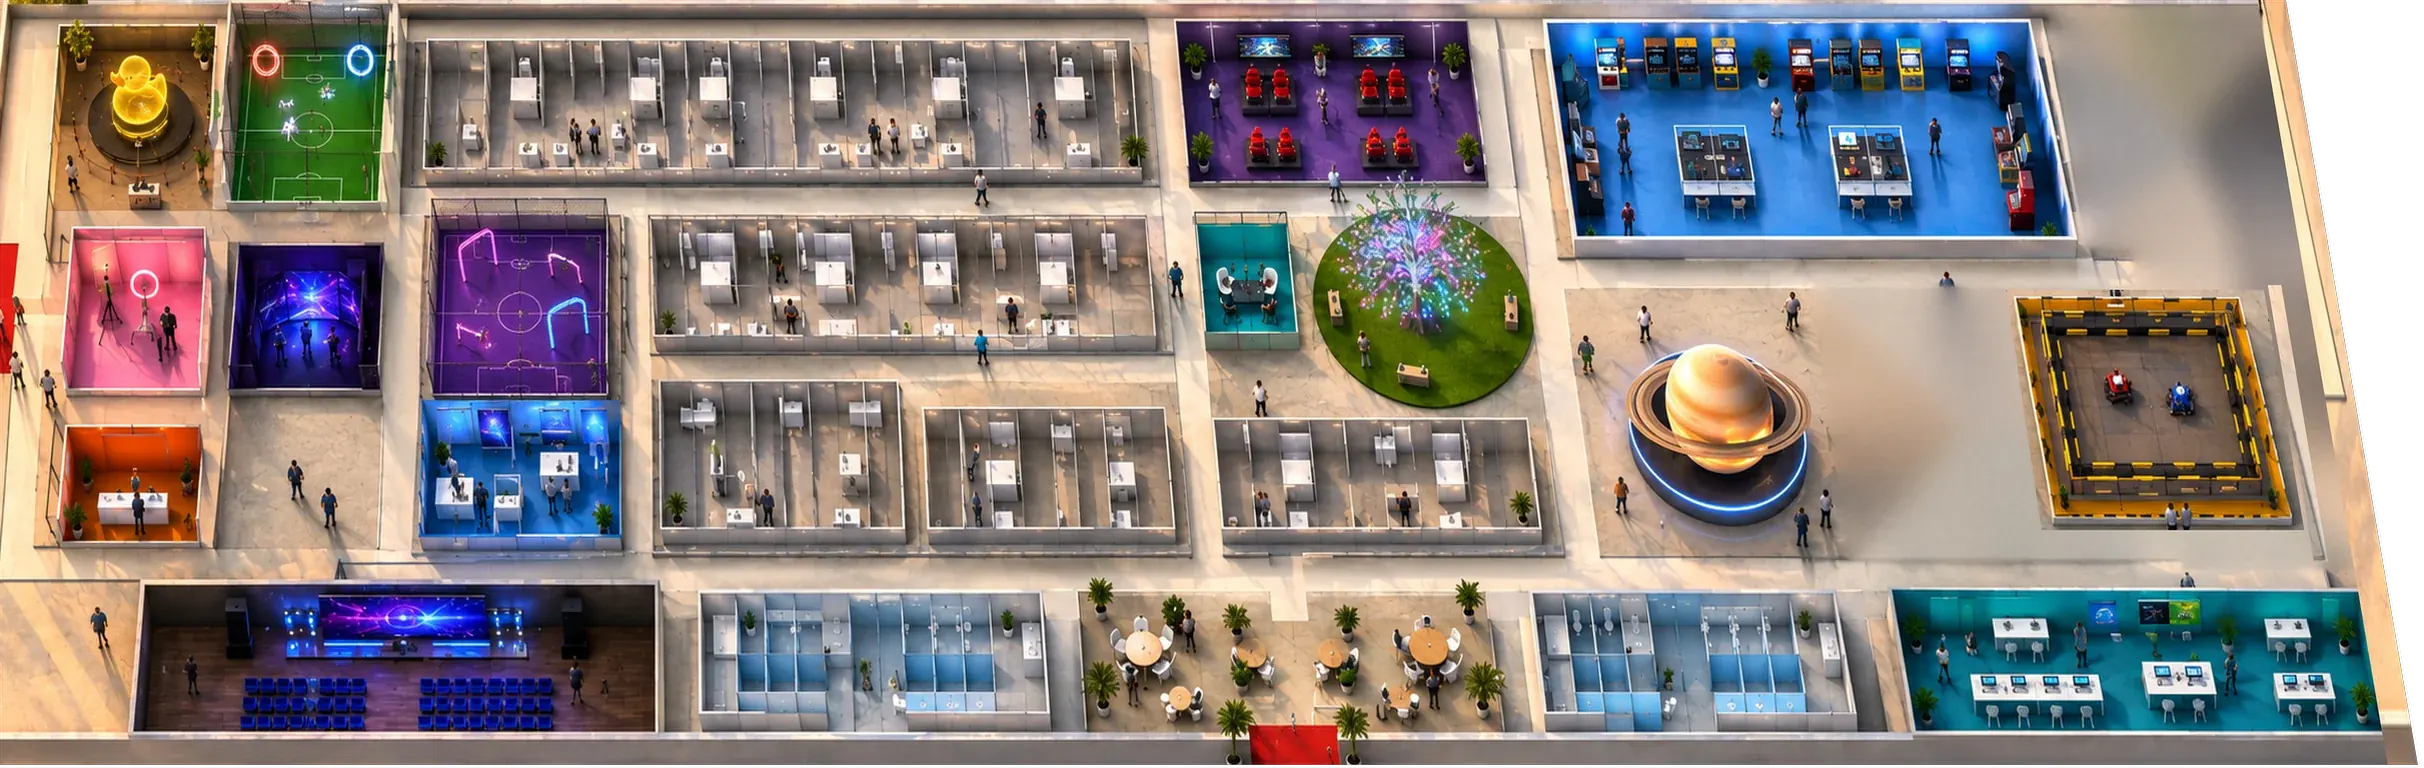
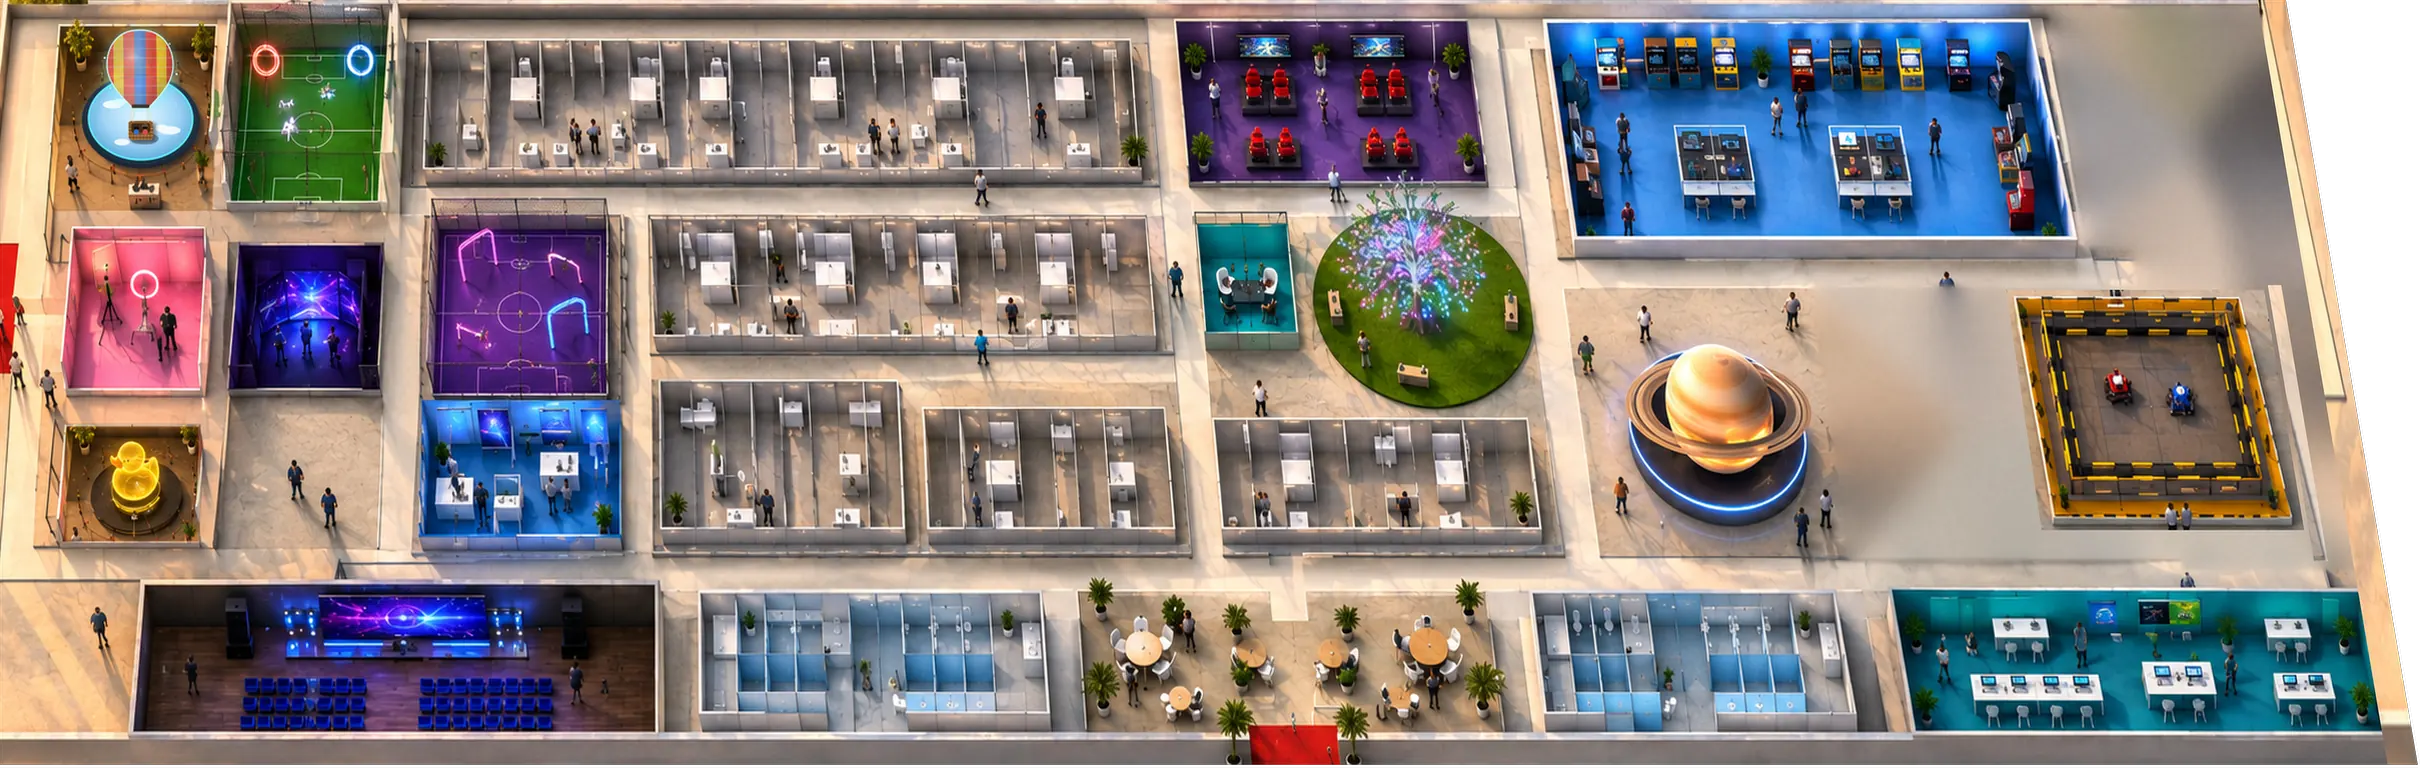
Organizando parte interna do pavilhão

Changed region(s): [[0.0, 0.5312, 0.0928, 0.7188], [0.0309, 0.0312, 0.0928, 0.2188]]

diff --git a/src/Mapa.jsx b/src/Mapa.jsx
@@ -18,6 +18,7 @@ const internos = dados.locais.filter((l) => l.dentro && l.x != null)
 
 // ícones das atrações (24x24, traço branco)
 const ICONES = {
+  balao: 'M12 3a6 6 0 0 0-6 6c0 3.2 2.6 5.6 4 7h4c1.4-1.4 4-3.8 4-7a6 6 0 0 0-6-6zM12 3c-1.6 2-2 4.5-2 6s.6 4.6 2 7M12 3c1.6 2 2 4.5 2 6s-.6 4.6-2 7M10 16l.5 2.5M14 16l-.5 2.5M9.5 18.5h5v2.5h-5z',
   pato: 'M6 14c0 3.3 2.7 5 6 5s6-1.7 6-5c0-1.8-1.2-3-2.6-3.5A4 4 0 1 0 8 9c0 .9.3 1.6.7 2.2C7.1 11.8 6 12.8 6 14zM13.5 8h.01M15.8 8.6l3.2.9-3.2.9',
   foto: 'M4 8h3l2-3h6l2 3h3v11H4zM12 16.5a3.5 3.5 0 1 0 0-7 3.5 3.5 0 0 0 0 7z',
   empresa: 'M4 8h16v11H4zM9 8V5h6v3M4 13h16',

diff --git a/README.md b/README.md
@@ -30,7 +30,7 @@ As posições são medidas na imagem com largura 1600 e altura 800 (`imagem.larg
   - `nome`: aparece na lista e nos passos.
   - `x`, `y`: onde fica o número na imagem (é onde a pessoa toca).
   - `no`: em qual ponto do caminho o lugar se liga. A rota chega por ele.
-  - `dentro: true`: atração de dentro do Pavilhão. `x`, `y` é o meio do espaço dela (onde a rota chega), `ponto` é onde fica a bolinha com o ícone, `no` é a porta dela no corredor e `icone` é o desenho da bolinha (pato, foto, empresa, palco, banheiro, drone, bola, foguete, fone, volante, arvore, controle, robo, cafe, chip, vr, planeta). Sem `x`, `y` e `no` (ex.: Expositores), não aparece no mapa e a rota vai até a entrada do Pavilhão.
+  - `dentro: true`: atração de dentro do Pavilhão. `x`, `y` é o meio do espaço dela (onde a rota chega), `ponto` é onde fica a bolinha com o ícone, `no` é a porta dela no corredor e `icone` é o desenho da bolinha (balao, pato, foto, empresa, palco, banheiro, drone, bola, foguete, fone, volante, arvore, controle, robo, cafe, chip, vr, planeta). Sem `x`, `y` e `no` (ex.: Expositores), não aparece no mapa e a rota vai até a entrada do Pavilhão.
 - **pavilhao**: o `id` do lugar que representa o Pavilhão (Exposição Interna).
 - **planta**: o Pavilhão por dentro. Com o mapa aproximado, o telhado some e aparece o desenho 3D de dentro (`imagem`, em `src/imagens/pavilhao-dentro.webp`, feito a partir da planta interna do Miro). `contorno` é `[x, y, largura, altura]` do telhado; `entrada` (porta da frente) e `entradaLateral` (ENTRADA 01) marcam as portas. Os corredores de dentro são os nós `pv...` em `nos` e `caminhos`; a porta da frente liga no nó `entrada` e a lateral no corredor dos food trucks (`f4`).
 - **nos**: pontos dos caminhos (`x`, `y` na imagem).
